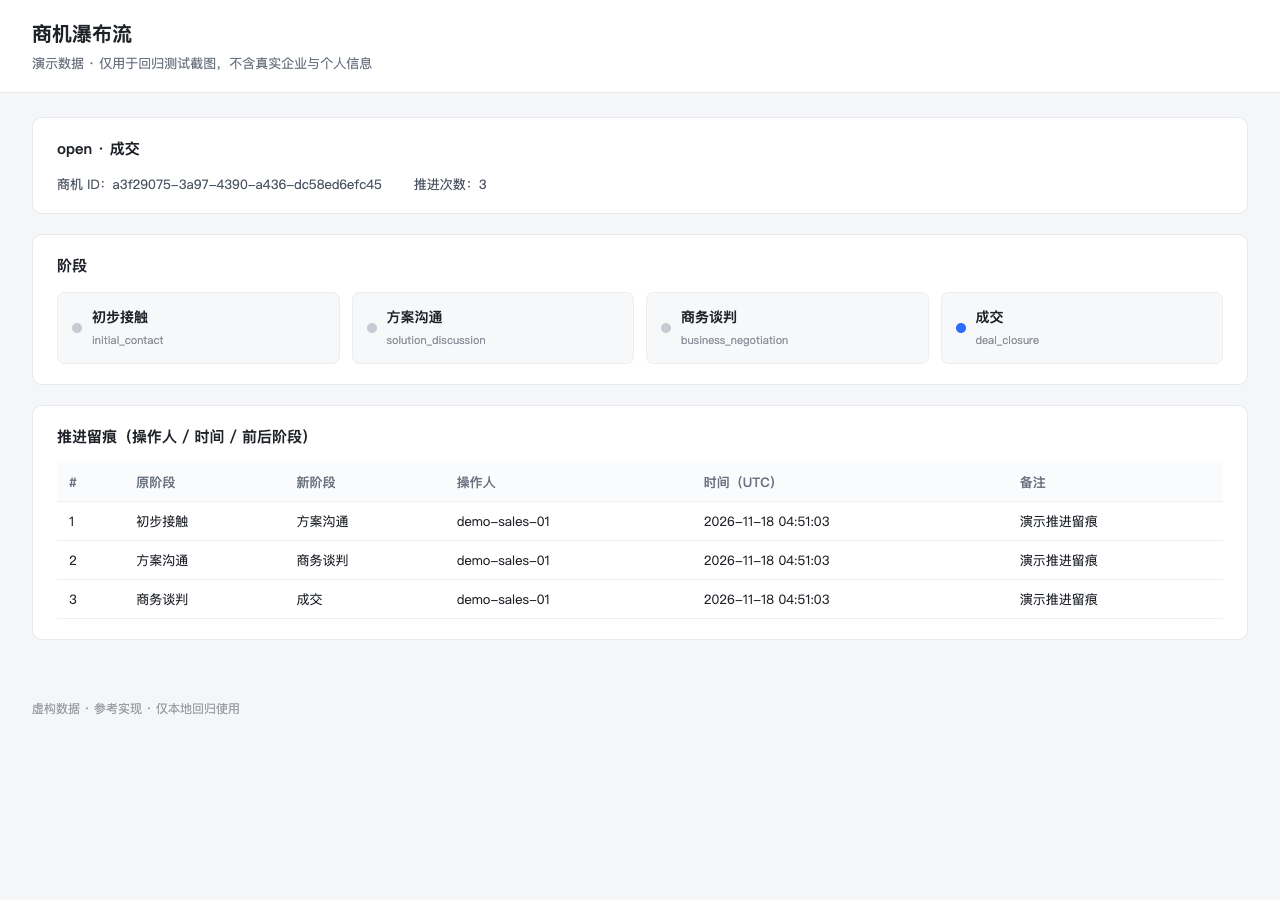
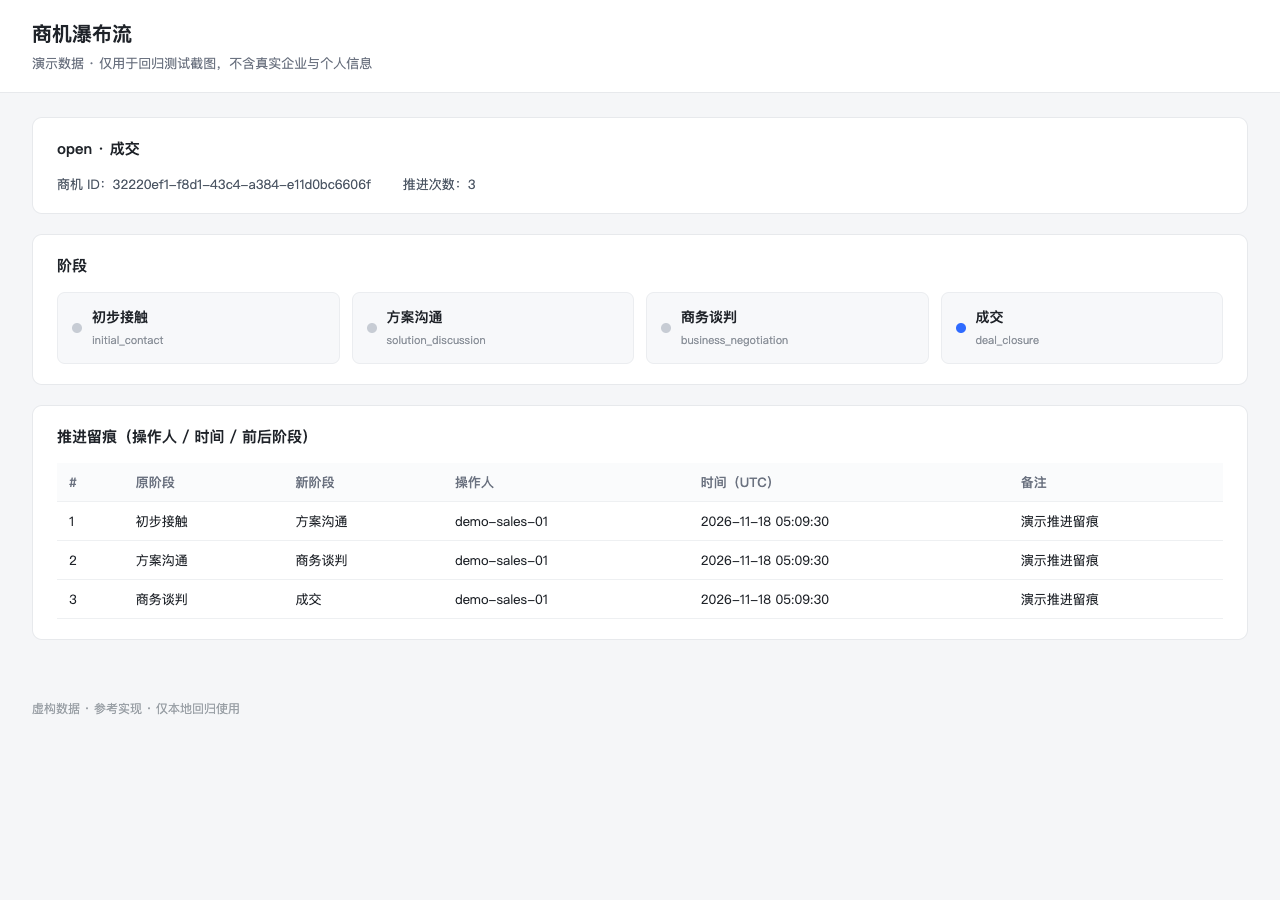
test(pg): 支持显式 TEST_DATABASE_URL 并在 PostgreSQL 16 实跑
- conftest 不再无条件覆盖 DATABASE_URL；PG 路径强制本机 + 库名含 test/e2e，先 alembic 迁移
- 新增 evidence/test-results-postgres.txt（PG 16.16，25 passed，86%）
- README 更新 PG 复验步骤、报告清单，去掉会漂移的提交号引用

diff --git a/tests/conftest.py b/tests/conftest.py
@@ -18,8 +18,37 @@ from httpx import ASGITransport, AsyncClient
 REPO_ROOT = Path(__file__).resolve().parents[1]
 
 
+def _assert_isolated_pg(url: str) -> None:
+    """Refuse anything that is not an explicitly namespaced local test database."""
+
+    from sqlalchemy.engine import make_url
+
+    parsed = make_url(url)
+    if not parsed.drivername.startswith("postgresql"):
+        raise RuntimeError("TEST_DATABASE_URL 只接受 postgresql:// 连接串")
+    if parsed.host not in (None, "127.0.0.1", "localhost", "::1"):
+        raise RuntimeError(f"拒绝对非本机数据库运行测试: host={parsed.host}")
+    database = (parsed.database or "").lower()
+    if "test" not in database and "e2e" not in database:
+        raise RuntimeError(f"库名必须含 test/e2e，避免误连共享库: {parsed.database}")
+
+
 @pytest.fixture(scope="session")
 def database_url(tmp_path_factory) -> str:
+    """Explicit TEST_DATABASE_URL wins (PostgreSQL path); otherwise throw-away SQLite.
+
+    The PostgreSQL path is expected to be migrated first (``alembic upgrade head``);
+    the suite never creates schema on it.
+    """
+
+    explicit = os.getenv("TEST_DATABASE_URL")
+    if explicit:
+        _assert_isolated_pg(explicit)
+        os.environ["DATABASE_URL"] = explicit
+        os.environ["SEED_DEMO_DATA"] = "0"
+        os.environ["AUTO_CREATE_SCHEMA"] = os.getenv("AUTO_CREATE_SCHEMA", "0")
+        return explicit
+
     db_file = tmp_path_factory.mktemp("db") / "e2e.sqlite3"
     url = f"sqlite+pysqlite:///{db_file}"
     os.environ["DATABASE_URL"] = url
@@ -33,7 +62,9 @@ def app(database_url):
     from app.main import app as fastapi_app
     from app.db import init_schema
 
-    init_schema()
+    if not os.getenv("TEST_DATABASE_URL"):
+        # PostgreSQL path is migrated by the caller (alembic upgrade head)
+        init_schema()
     return fastapi_app
 
 

diff --git a/README.md b/README.md
@@ -5,8 +5,9 @@
 并附 Playwright 瀑布流页面截图、运行报告与 README。
 
 - 公开仓库：https://github.com/PikachuGits/s4-e2e-019-opportunity-closure
-- 默认分支：`main`，首版提交 `7759cef`
-- 本次运行：`25 passed`，覆盖率以 `evidence/test-results.txt` 为准（`--cov=app`、`branch = true`；截图用例在子进程里执行，统计边界可能让数值在 87%–88% 间波动，正文不写死）
+- 默认分支：`main`（提交号以仓库页面为准，文档不固定引用，避免与仓库漂移）
+- 本次运行：`25 passed`（SQLite 与 PostgreSQL 16.16 各跑一遍），覆盖率以对应报告为准
+- 报告：`evidence/test-results.txt`（SQLite，87%–88%）、`evidence/test-results-postgres.txt`（PostgreSQL 16.16，86%）；`--cov=app`、`branch = true`，截图用例在子进程里执行，统计边界会让数值在 86%–88% 间波动，正文不写死固定值
 
 > **边界声明（先读）**
 >
@@ -24,7 +25,7 @@
 | 验收标准（原文） | 用例文件 | 可观察断言 |
 |---|---|---|
 | ① 阶段推进留痕条数等于推进次数 | `tests/test_e2e_opportunity_audit.py` | 推进 3 次 → `stage_history` 恰 3 条；`sequence=1..3`；每条含 `operator_id`、`occurred_at`（带时区）、`from_stage`/`to_stage`；相邻记录首尾相接；重复推进 / 跨阶段推进 / 并发推进均不增加留痕 |
-| ② 提交收付款类字段返回 422 | `tests/test_e2e_no_fund_fields.py` | `amount_paid`、`payment_account`、`paid_amount`、`received_amount` 等（含嵌套对象、数组元素、camelCase 变体）一律 **422 + `FUND_FIELDS_FORBIDDEN`**；合法请求 201 且响应只含 4 个统计字段；`opportunity_deal_records` 表不存在任何收付款列 |
+| ② 提交收付款类字段返回 422 | `tests/test_e2e_no_fund_fields.py` | `amount_paid`、`payment_account`、`paid_amount`、`received_amount` 等（含嵌套对象、数组元素、camelCase 变体）一律 **422 + `FUND_FIELDS_FORBIDDEN`**；合法请求 201 且响应只含 4 个统计字段；`test_physical_table_schema_has_no_fund_columns` 在建表后用 `inspect()` 读物理 schema（SQLite 下另查 DDL 文本），证明资金列在数据库层面也不存在 |
 | ③ 未选择原因的未成交关闭被拒绝 | `tests/test_e2e_lost_requires_reason.py` | `outcome=lost` 且无 `reason` / 空串 / 纯空格 → **422 + `LOST_REASON_REQUIRED`**，商机仍 `open`、`close_reason` 为空；带原因 → 200 且写入 `close_reason`；关闭后推进被 409 拒绝 |
 | ④ 需求状态 fulfilled，需求广场查不到 | `tests/test_e2e_demand_fulfilled.py` | 走完成交闭环后：`GET /api/v1/demands/{id}` → `status=fulfilled`；`GET /api/v1/demands` 列表不含该需求；`?include_all=true`（管理与审计视角）仍可读到，避免「查不到 = 数据丢失」 |
 | 范围补充：商机转化率统计接口更新 | `tests/test_e2e_demand_fulfilled.py::test_conversion_rate_updates_after_won_and_lost` | 成交 1 个 + 在途 1 个 → `{"won":1,"total":2,"conversion_rate":0.5}`（成交商机 ÷ 商机总数） |
@@ -48,18 +49,25 @@ python -m playwright install chromium     # 仅截图用例需要
 - 不开 `AUTO_CREATE_SCHEMA` 时改用 Alembic：`alembic upgrade head`（迁移脚本 `alembic/versions/0001_*.py`）。
 - 截图用例在缺少 Playwright / 浏览器时**跳过**；跳过不算通过，报告里会标注 skip 原因。
 
-### 2.2 PostgreSQL 16 + Redis（集成口径）
+### 2.2 PostgreSQL 16（已实跑，见 `evidence/test-results-postgres.txt`）
+
+数据库由 Alembic 建表，测试夹具**不会**在 PG 上 `create_all`。必须显式给出隔离测试库 URL：
 
 ```bash
-docker compose -f docker-compose.test.yml up -d
-export DATABASE_URL='postgresql+psycopg://e2e:e2e@127.0.0.1:55432/opportunity_e2e'
+docker compose -f docker-compose.test.yml up -d            # 或任意本机 PG16
+export TEST_DATABASE_URL='postgresql+psycopg://e2e:e2e@127.0.0.1:55432/opportunity_e2e_test'
+export DATABASE_URL="$TEST_DATABASE_URL"                   # alembic 复用同一 URL
 export AUTO_CREATE_SCHEMA=0
 alembic upgrade head
 ./scripts/test.sh
 ```
 
-> 本次交付证据在 SQLite 上产出（交付环境无 Docker）。用例与迁移脚本不使用 SQLite 专有语法，
-> 但**本仓库不声称已在 PostgreSQL 上运行过**；接入方需在 PG 上复跑一次并以其结果为准。
+夹具内置三条护栏（`tests/conftest.py::_assert_isolated_pg`）：只接受 `postgresql://`；host 必须是
+`127.0.0.1`/`localhost`/`::1`；库名必须含 `test` 或 `e2e`。任一不满足直接失败，不会连到共享库。
+
+**本次实测**（2026-11-18）：PostgreSQL 16.16（Homebrew，独立 cluster，端口 55433，数据库
+`opportunity_e2e_test`）→ `alembic upgrade head` 建 6 张表（5 业务表 + `alembic_version`）→
+**25 passed，覆盖率 86%**。SQLite 路径同期 25 passed / 87%–88%（截图用例在子进程，覆盖率随进程边界小幅波动，以报告为准）。
 
 ---
 
@@ -76,7 +84,8 @@ alembic upgrade head
 | `app/` | S3-MATCH 接口桩 + 商机闭环参考实现（仅用于让用例可运行） |
 | `alembic/versions/0001_opportunity_closure_chain.py` | 表结构迁移（5 张表，含软删除与租户字段） |
 | `docs/screenshots/waterfall.png` | 瀑布流页面截图（虚构数据） |
-| `evidence/test-results.txt` | 本次运行报告（`25 passed`，覆盖率以报告为准；绝对路径已脱敏为 `.`） |
+| `evidence/test-results.txt` | SQLite 路径运行报告（`25 passed`，绝对路径已脱敏为 `.`） |
+| `evidence/test-results-postgres.txt` | PostgreSQL 16.16 路径运行报告（`25 passed`，覆盖率 86%） |
 | `docker-compose.test.yml` | PG16（pgvector）+ Redis 7，仅绑定 127.0.0.1 |
 
 ---
@@ -167,6 +176,6 @@ Readme 中「假设与待确认项」同时就是对接清单。
 
 ## 9. 已知限制
 
-- 交付环境没有 Docker，证据在 SQLite 上产出；PostgreSQL 16 路径已提供但未在本环境实际跑过（见 2.2）。
+- PostgreSQL 路径已实际运行（16.16，独立 cluster，见 §2.2 与 `evidence/test-results-postgres.txt`）；若客户环境是 16.x 的其他小版本，迁移与断言逻辑不变，仍建议在目标库复跑一次。
 - 截图用例起真实 uvicorn 进程（约 3 秒）；CI 未安装浏览器时会 skip，报告会标注。
-- 覆盖率以 `evidence/test-results.txt` 为准（`branch = true`，口径 `--cov=app`）：截图用例在子进程运行，覆盖率统计随进程边界在 87%–88% 间波动，正文不固定引用某一个数值；`main.py` 的 HTML 渲染分支同样由子进程覆盖，未计入主进程统计。
+- 覆盖率以两份报告为准（`branch = true`，口径 `--cov=app`）：SQLite 87%–88%、PostgreSQL 86%（PG 走真实 schema，SQLite 专有的 DDL 文本断言分支不执行）；截图用例在子进程运行，统计随进程边界波动，正文不固定引用单一数值。
